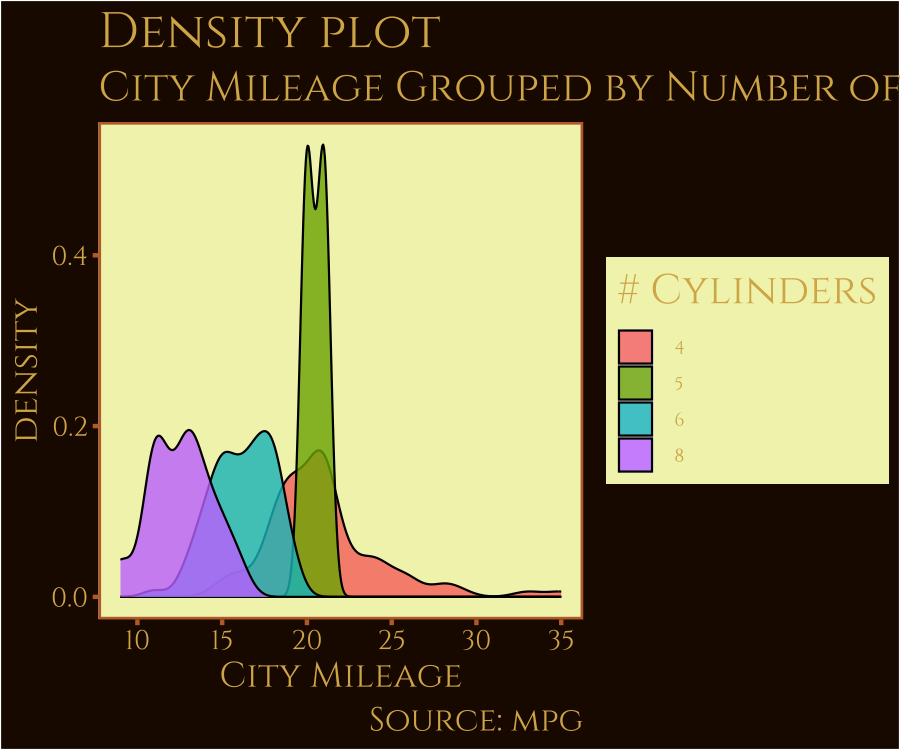
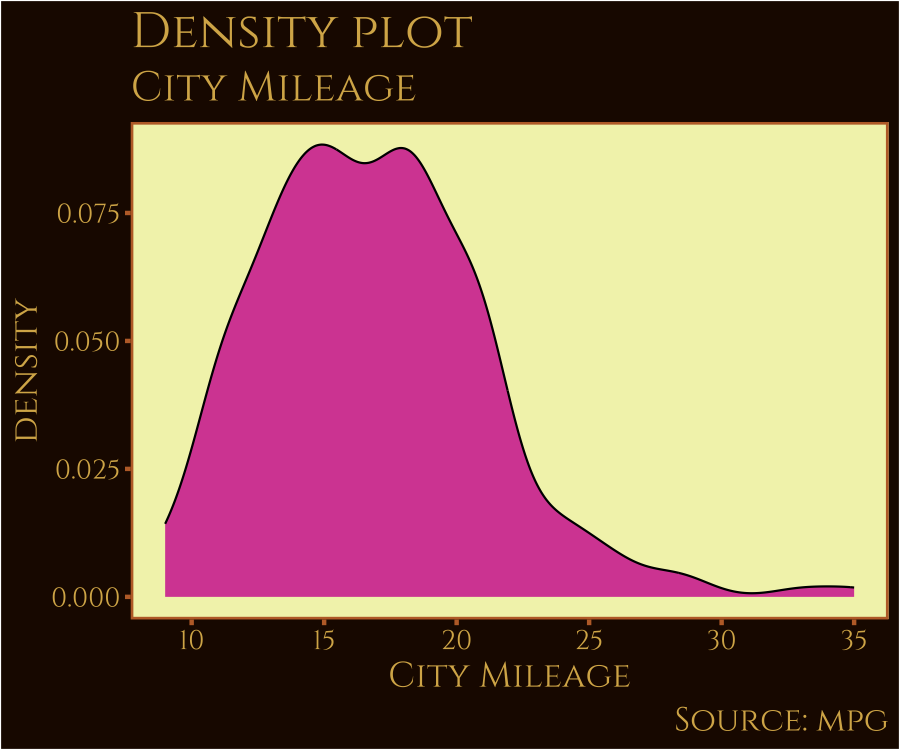
setting up package for cran

diff --git a/README.md b/README.md
@@ -146,16 +146,14 @@ We can mix this with colors from the Barbie theme.
 
 ``` r
 g <- ggplot(mpg, aes(cty))
-g + geom_density(aes(fill = factor(cyl)), alpha = 0.8) +
-  labs(
-    title = "Density plot",
-    subtitle = "City Mileage Grouped by Number of cylinders",
-    caption = "Source: mpg",
-    x = "City Mileage",
-    fill = "# Cylinders"
-  ) +
-  theme_gameofthrones() +
-  scale_color_barbie()
+g + geom_density(fill = barbie_theme_colors["medium"]) +
+    labs(
+        title = "Density plot",
+        subtitle = "City Mileage",
+        caption = "Source: mpg",
+        x = "City Mileage"
+    ) +
+    theme_gameofthrones()
 ```
 
 <img src="man/figures/README-cars-1.png" width="100%" />
